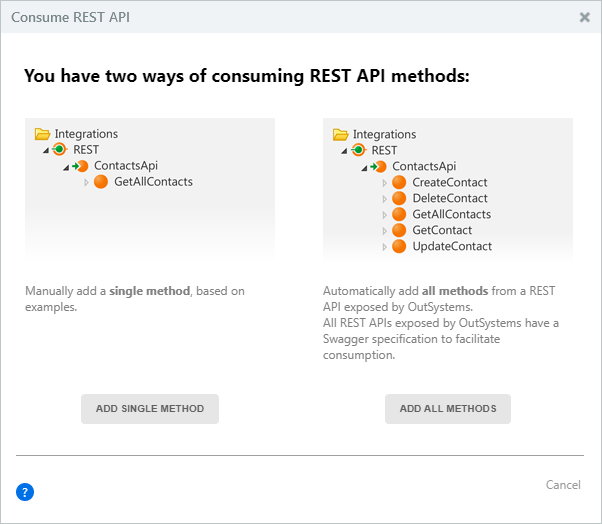
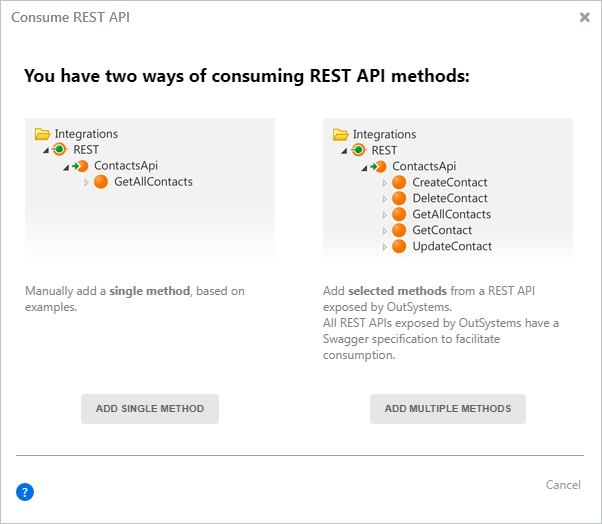
Updated consume REST topic following an internal request.

Changed region(s): [[0.5382, 0.5496, 0.9269, 0.6107], [0.598, 0.7328, 0.897, 0.8244]]

diff --git a/src/extensibility-and-integration/rest/consume-rest-apis/consume-a-rest-api.md b/src/extensibility-and-integration/rest/consume-rest-apis/consume-a-rest-api.md
@@ -9,13 +9,13 @@ Make sure you gather all the information you need from the REST API documentatio
 
 In Service Studio you can:
 
-* consume several REST API methods described in a Swagger specification file, provided either by entering a URL or by selecting a specification file from the local file system.
+* consume several REST API methods (all methods or just the methods you select) described in a Swagger specification file, provided either by entering a URL or by selecting a specification file from the local file system.
 
 * Consume a single REST API method.
 
 ## Consume several methods of a REST API { #all-methods }
 
-You can consume several methods of a REST API if that API is compliant with the [Swagger specification](https://swagger.io/specification/) – REST APIs exposed by OutSystems are compliant with this specification.  
+You can consume several methods of a REST API (all API methods or just the methods you select) if that API is compliant with the [Swagger specification](https://swagger.io/specification/). REST APIs exposed by OutSystems are compliant with this specification.  
 
 You can import Swagger specifications either by providing a URL or by selecting a specification file from the local file system.
 
@@ -23,23 +23,23 @@ Do the following:
 
 1. In the **Logic** tab, open the **Integrations** folder.
 
-1. Right-click on the **REST** element and select **Consume REST API...**.
+1. Right-click on the **REST** element and select **Consume REST API...**
 
     ![Context menu when right-clicking REST in Service Studio](images/ss-rest-consume-menu.png)
 
-1. In the displayed dialog, choose **Add All Methods**.
+1. In the displayed dialog, choose **Add Multiple Methods**.
 
-    ![Consume REST API dialog - add single or all methods](images/ss-rest-consume-dialog.png)
+    ![Consume REST API dialog - add single or multiple methods](images/ss-rest-consume-dialog.png)
+
+1. If you're importing an OpenAPI 3.0 specification file and the specification includes more than one server endpoint, choose the desired endpoint and click **Finish**.
+
+    ![Dialog to choose one of the available server endpoints](images/ss-rest-consume-multiples-server-endpoint-dialog.png?width=582)
+
+    _Note:_ You can't change the server endpoint after importing the REST API.
 
 1. Choose the REST API methods you want to import (by default, all methods) and click **Finish**.
 
     ![Dialog to choose the REST API methods to import](images/ss-rest-consume-choose-methods.png)
-
-1. If you're importing an OpenAPI 3.0 specification file and the specification includes more than one server endpoint, choose the desired endpoint and click **Finish**.
-
-    ![Dialog to choose one of the available server endpoints](images/ss-rest-consume-multiples-server-endpoint-dialog.png)
-
-    _Note:_ You can't change the server endpoint after importing the REST API.
 
 When importing the REST API, Service Studio does the following:
 
@@ -66,7 +66,7 @@ Do the following:
 
 1. In the displayed dialog, choose **Add Single Method**.
 
-    ![Consume REST API dialog - add single or all methods](images/ss-rest-consume-dialog.png)
+    ![Consume REST API dialog - add single or multiple methods](images/ss-rest-consume-dialog.png)
 
 1. Fill the information about the **Method URL**. You can include parameters between braces in the URL for the method's input parameters.
 
